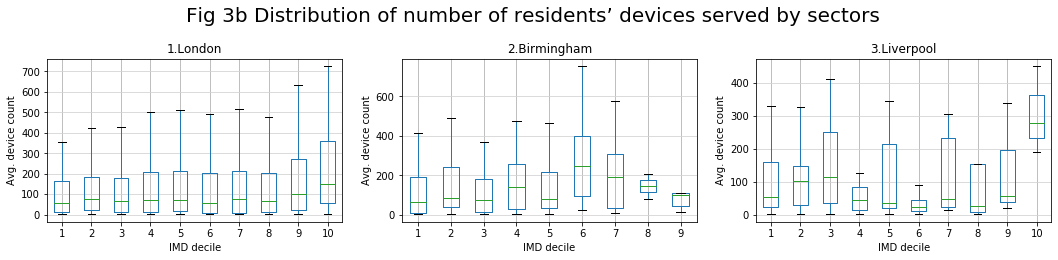
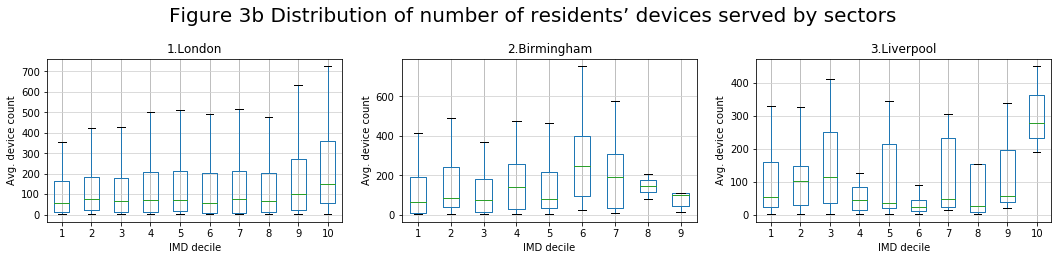
new

Changed region(s): [[0.156, 0.0308, 0.8422, 0.0923]]

diff --git a/IMC2020/Diagrams/IMC2020_diagrams.md b/IMC2020/Diagrams/IMC2020_diagrams.md
@@ -310,7 +310,7 @@ london_4G_res_count = homeantenna_london_pd[homeantenna_london_pd['generation']=
 
 ```python
 fig, ax = plt.subplots(1, 3, figsize=(18, 3), facecolor='w', edgecolor='k')
-fig.suptitle('Fig 3b Distribution of number of residents’ devices served by sectors', size=20, y=1.12)
+fig.suptitle('Figure 3b Distribution of number of residents’ devices served by sectors', size=20, y=1.12)
 
 def applyPlotStyle(ax):
     ax.yaxis.grid(True, linestyle='-', which='both', color='lightgrey')
